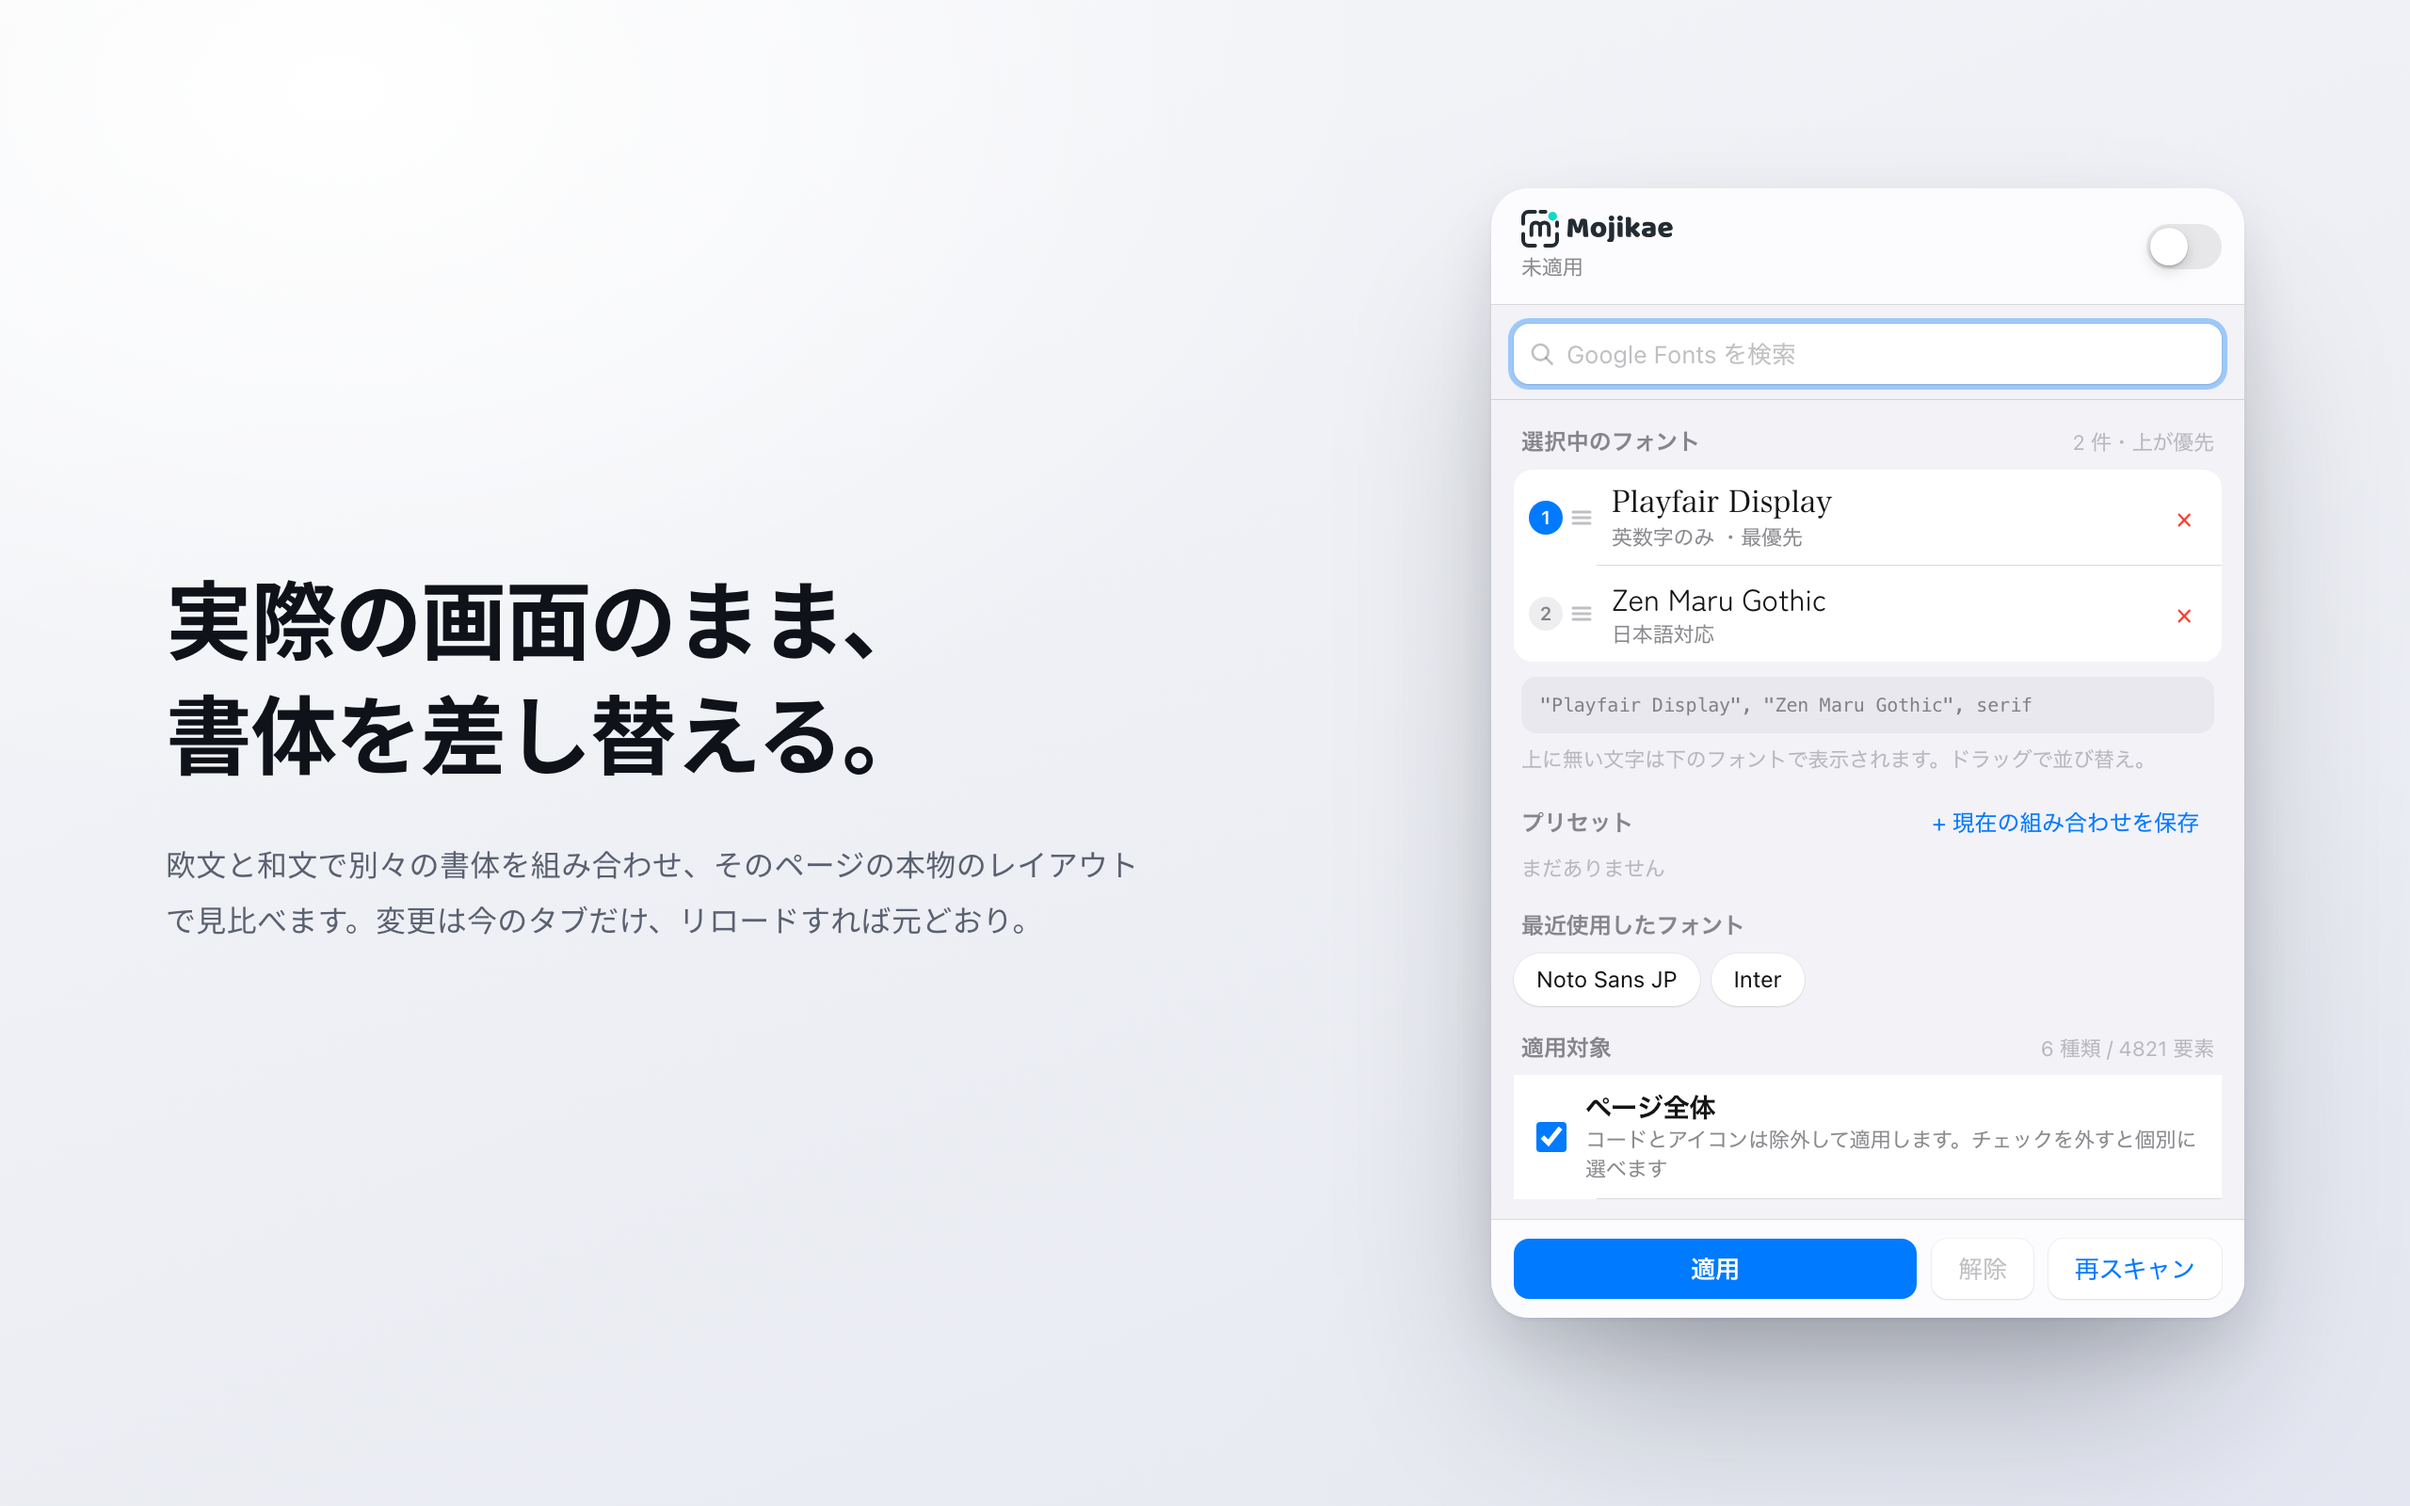
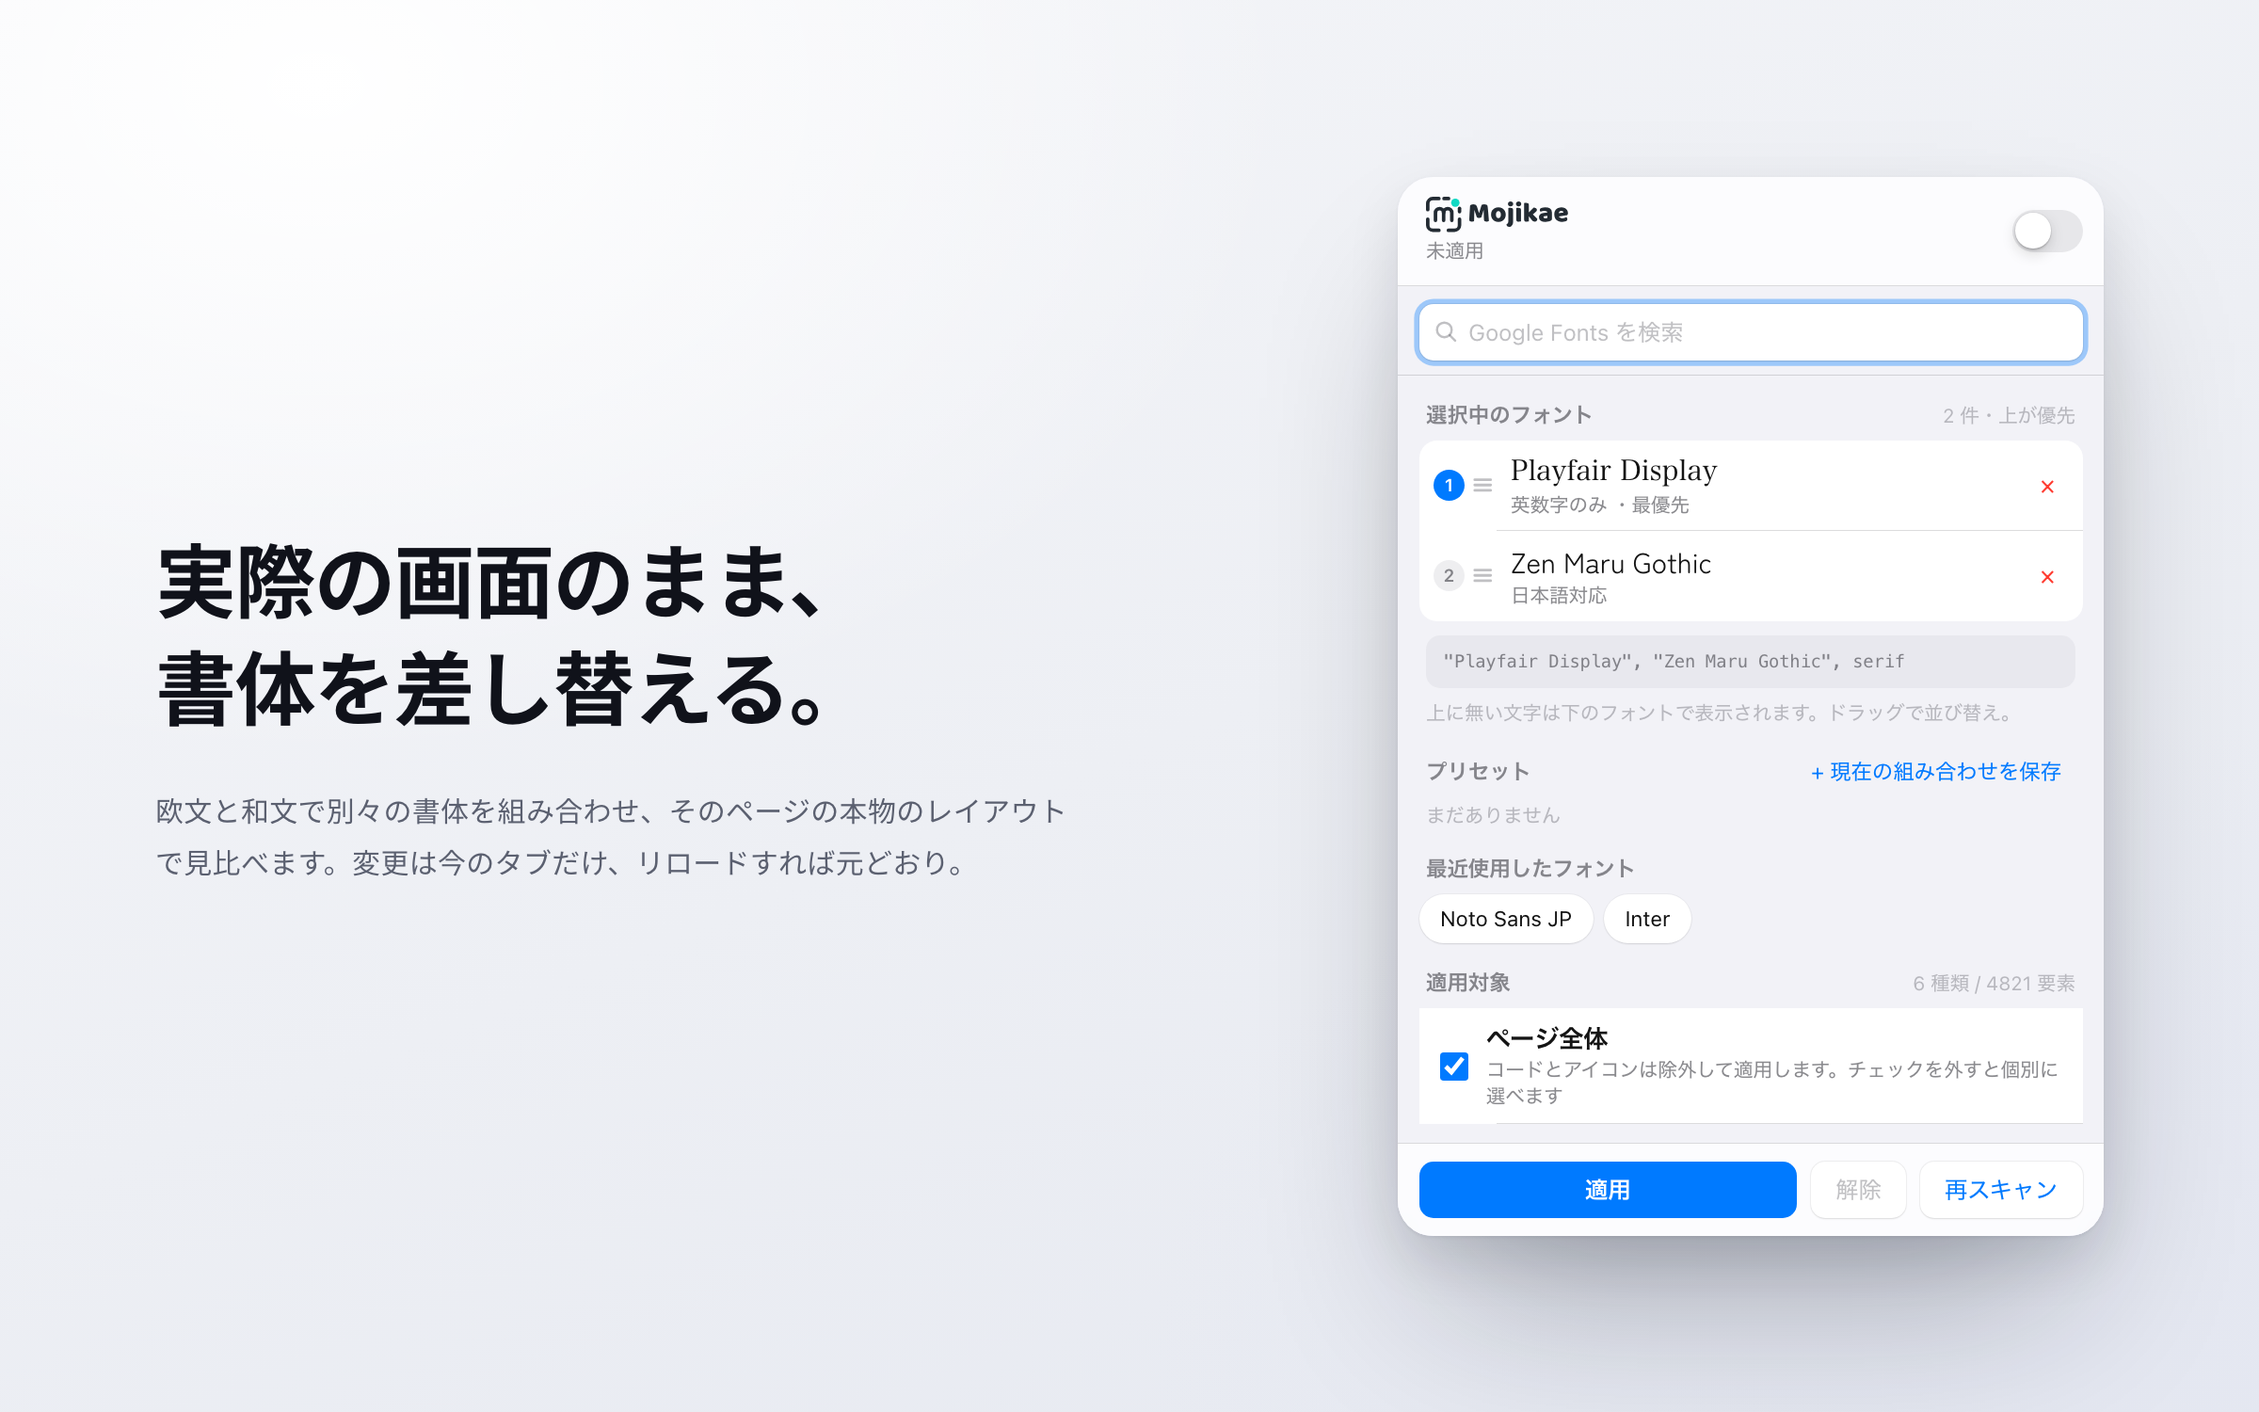
chore: Chrome Web Store 向けの掲載素材を追加する
- store/cws-listing.md: 掲載情報・説明文・プライバシータブの記入内容
  （単一用途の説明、権限ごとの理由、リモートコードとデータ使用の申告）
- スクリーンショットの倍率と出力先を環境変数で切り替えられるようにする
  CWS は 1280x800 ちょうどを要求し、AMO 用の 2400x1500 は使えないため

Chrome Web Store はソースコードの提出を求めない。リモートコードの申告は
「使用していない」で正しい。CWS の定義するリモートコードは JavaScript と
WebAssembly で、Google Fonts から取得する CSS とフォントファイルは含まれない。

あわせて AMO 用スクリーンショットを 2400x1500 で再生成する（2560x1600 は
AMO の上限 2400x1800 を超えていた）。

diff --git a/store/cws-listing.md b/store/cws-listing.md
@@ -1,0 +1,178 @@
+# Chrome Web Store 掲載情報
+
+[Developer Dashboard](https://chrome.google.com/webstore/devconsole) に貼り付けるための原稿。
+
+アップロードするファイルは `.output/mojikae-<version>-chrome.zip`（`pnpm zip` で生成）。
+AMO と違い、**ソースコードの提出は不要**（Chrome Web Store は minify されたコードをそのまま審査する）。
+
+| 項目 | 値 |
+| --- | --- |
+| アイテム名 | `Mojikae` |
+| カテゴリ | **開発者ツール（Developer Tools）** |
+| 言語 | 日本語（既定）＋ English |
+| アイコン | パッケージ内の `icon/128.png` が自動で使われる |
+| スクリーンショット | `store/screenshots-chrome/*.png`（1280×800、2 枚） |
+| プライバシーポリシー URL | `https://github.com/sakuyasann/Mojikae/blob/main/PRIVACY.md` |
+| サポートメール | `mojikae@sakuyasan.net` |
+| 公開範囲 | 一般公開 |
+
+Chrome Web Store のスクリーンショットは **1280×800 または 640×400 ちょうど**が要求されるため、
+AMO 用（2400×1500）とは別に生成する。
+
+```bash
+SHOT_SCALE=1 SHOT_DIR=screenshots-chrome node store/build-screenshots.mjs
+```
+
+---
+
+## 概要（132 文字以内）
+
+### 日本語 — 66 文字
+
+```
+開いているページのフォントを Google Fonts へ一時的に差し替えて見比べられます。欧文と和文の組み合わせも可能。リロードで元に戻ります。
+```
+
+### English — 119 characters
+
+```
+Temporarily swap the fonts on any page for Google Fonts to compare them in place. Pair a Latin face with a Japanese one.
+```
+
+---
+
+## 説明（プレーンテキスト。HTML は使えません）
+
+### 日本語
+
+```
+Mojikae は、いま開いている Web ページのフォントを Google Fonts の書体へ一時的に差し替えて、実際の画面のまま見比べるための拡張機能です。SaaS・管理画面・Web サイトのフォント選定に使えます。
+
+■ できること
+
+・ページで実際に使われている font-family を検出して一覧表示
+・ページ全体を差し替える／特定の font-family だけを差し替える
+・欧文と和文で別々の書体を組み合わせる（例: 見出しは Playfair Display、日本語は Zen Maru Gothic）
+・検索結果のフォント名を、その書体自身で描画して選べる
+・言語（日本語・キリル文字など）と種類（セリフ／サンセリフ／等幅など）で絞り込み
+・人気順に並んだ 1,900 以上の Google Fonts から選択
+・気に入った組み合わせをプリセットとして保存
+
+■ 安全な作りになっています
+
+・変更はツールバーのアイコンを押したタブだけに適用され、リロードすればすべて元に戻ります。ページのファイルは書き換えません。
+・アイコンフォント（Material Symbols、Font Awesome など）や等幅で組まれたコード部分は自動で判別し、差し替えません。
+・必要な権限は activeTab / scripting / storage と Google Fonts のドメインだけです。全サイトへのアクセス権限は要求しません。
+・閲覧履歴・URL・ページ内容を収集も送信もしません。端末に保存するのは、最近使ったフォント名（最大 5 件）とプリセット（最大 20 件）だけです。
+
+■ 使い方
+
+1. 調べたいページでツールバーの Mojikae アイコンを押す
+2. 検出されたフォントの一覧から適用対象を選ぶ（初期状態はページ全体）
+3. フォントを検索して選ぶ。2 つ以上選ぶと、1 つ目が欧文、2 つ目以降が日本語などの落ち先になります
+4. 「適用」で切り替え、「解除」かリロードで元に戻す
+
+ソースコードは MIT ライセンスのもとに公開しています。
+https://github.com/sakuyasann/Mojikae
+```
+
+### English
+
+```
+Mojikae temporarily replaces the fonts on the page you are viewing with Google Fonts, so you can compare typefaces in the real interface instead of a mockup. Useful when picking type for a SaaS product, an admin dashboard, or a website.
+
+WHAT IT DOES
+
+- Detects the font-family values actually in use on the page and lists them
+- Override the whole page, or just one specific font-family
+- Combine a Latin face with a Japanese one (for example Playfair Display for Latin, Zen Maru Gothic for Japanese)
+- Every search result is rendered in its own typeface
+- Filter by language (Japanese, Cyrillic, Greek, and more) and by category (serif, sans-serif, monospace, and more)
+- Over 1,900 Google Fonts, sorted by popularity
+- Save font combinations as presets
+
+BUILT TO STAY OUT OF THE WAY
+
+- Changes apply only to the tab where you clicked the toolbar icon and are fully reverted on reload. Nothing on the page is modified permanently.
+- Icon fonts (Material Symbols, Font Awesome, and similar) and monospaced code blocks are detected and left untouched.
+- Requires only activeTab, scripting, storage, and the Google Fonts domains. It never requests access to all sites.
+- No browsing history, URLs, or page content is collected or transmitted. Only recently used font names (max 5) and your presets (max 20) are stored locally.
+
+HOW TO USE IT
+
+1. Open the page you want to test and click the Mojikae toolbar icon
+2. Choose what to override - the whole page by default, or a specific detected font-family
+3. Search and pick fonts. With two or more selected, the first covers Latin and the rest act as fallbacks for Japanese and other scripts
+4. Click Apply, then Release or simply reload to restore the original
+
+Source code is available under the MIT License.
+https://github.com/sakuyasann/Mojikae
+```
+
+---
+
+## プライバシー タブ（必須項目）
+
+Chrome Web Store は、ここが埋まっていないと審査に進めません。
+
+### 単一用途の説明（Single purpose）
+
+```
+Mojikae has a single purpose: to let the user preview Google Fonts on the page they are currently viewing. When the user clicks the toolbar icon, the extension detects which font-family values that page uses and can temporarily override them with fonts loaded from Google Fonts, so the user can compare typefaces in a real layout. The override is applied only to that tab and is fully reverted when the page reloads.
+```
+
+### 権限の理由（Permission justification）
+
+各欄にそのまま貼れる形。
+
+| 権限 | 理由 |
+| --- | --- |
+| `activeTab` | ```Mojikae only acts on the tab where the user clicked the toolbar icon. activeTab grants access to that single tab at that moment, which is what the extension needs to read its fonts and apply the preview. It deliberately does not request the "tabs" permission or host permissions for websites, so it has no access to any other tab and no access to browsing history.``` |
+| `scripting` | ```The extension uses scripting.executeScript to read the computed font-family of elements on the active tab (via getComputedStyle), and scripting.insertCSS / removeCSS to apply and remove the temporary font override. Injected CSS is scoped under a single attribute on the html element, so removing that attribute reverts every change.``` |
+| `storage` | ```Used only to remember the user's own choices between sessions: the last 5 font names they used, and up to 20 saved font combinations ("presets"). Nothing is stored about the sites the user visits - no URLs, titles, tab information, or page content.``` |
+| ホスト権限<br>`fonts.googleapis.com`<br>`fonts.gstatic.com` | ```These two domains are Google Fonts. fonts.googleapis.com returns the @font-face definitions for the fonts the user selects, and fonts.gstatic.com serves the font files those definitions reference. Only font names and the characters needed for rendering are sent. No host permission for any website is requested - the extension never sees or transmits the URL or content of the pages the user visits.``` |
+
+### リモートコードの使用
+
+**「いいえ、リモートコードは使用していません」** を選択。
+
+Chrome Web Store の定義するリモートコードは **JavaScript と WebAssembly** で、CSS・ウェブフォント・
+JSON などのデータは含まれません。Mojikae が外部から取得するのは Google Fonts の CSS（`@font-face`）と
+フォントファイルだけで、実行されるコードはすべてパッケージ内にあります。
+
+### データの使用（Data usage）
+
+すべて **「収集していない」** を選択したうえで、末尾の 3 つの証明にチェック。
+
+| 種別 | 収集の有無 |
+| --- | --- |
+| 個人を特定できる情報 | なし |
+| 健康情報 | なし |
+| 金融情報・支払い情報 | なし |
+| 認証情報 | なし |
+| 個人的なやり取り | なし |
+| 位置情報 | なし |
+| ウェブ閲覧履歴 | なし |
+| ユーザーの操作履歴 | なし |
+| ウェブサイトのコンテンツ | なし |
+
+証明（3 つともチェック）
+
+- 承認された用途以外にデータを販売・転送していない
+- アイテムの単一用途と無関係な目的でデータを使用・転送していない
+- 信用調査や融資目的でデータを使用・転送していない
+
+### プライバシーポリシー URL
+
+```
+https://github.com/sakuyasann/Mojikae/blob/main/PRIVACY.md
+```
+
+---
+
+## 提出前の確認
+
+- [ ] Chrome Web Store デベロッパー登録（**一回だけ 5 USD の登録料**が必要。支払いは本人が行うこと）
+- [ ] `pnpm zip` で `.output/mojikae-<version>-chrome.zip` を生成
+- [ ] スクリーンショットは 1280×800 ちょうどのものを使う（AMO 用の 2400×1500 は不可）
+- [ ] プライバシー タブをすべて埋める（ここが未記入だと審査に進まない）

diff --git a/README.md b/README.md
@@ -489,6 +489,15 @@ pnpm exec vite --config .preview/vite.config.ts
 - 日本語以外のサブセット優先表示の切り替え
 - Shadow DOM の走査
 
+## Chrome Web Store への掲載
+
+原稿は [`store/cws-listing.md`](store/cws-listing.md)。AMO と違いソースコードの提出は不要です。
+
+```bash
+pnpm zip                                                        # .output/mojikae-<version>-chrome.zip
+SHOT_SCALE=1 SHOT_DIR=screenshots-chrome pnpm store:screenshots  # 1280x800（CWS はこの寸法ちょうどを要求）
+```
+
 ## ライセンス
 
 [MIT License](LICENSE)
